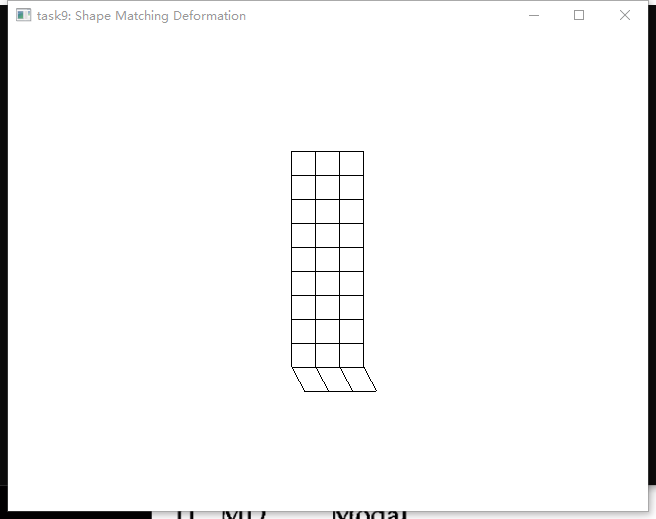
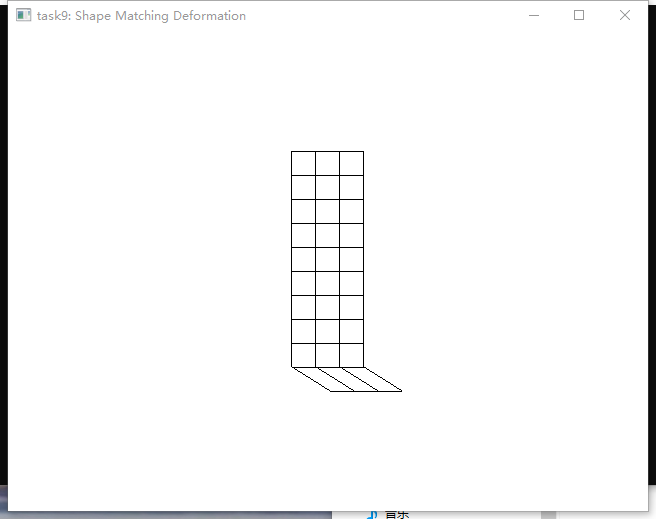
task1 is not finished

Changed region(s): [[0.0, 0.9249, 0.6402, 1.0], [0.5183, 0.7091, 0.5793, 0.7399], [0.8232, 0.9865, 0.8537, 1.0]]

diff --git a/task9/main.cpp b/task9/main.cpp
@@ -1,4 +1,3 @@
-
 #include "delfem2/glfw/viewer2.h"
 #include "delfem2/mshprimitive.h"
 #include <GLFW/glfw3.h>
@@ -76,8 +75,6 @@ int main()
   const std::vector<float> aXY0 = aXY; // rest shape
   std::vector<float> aUV(aXY.size(),0.0); // velocity
   std::vector<float> aXYt(aXY.size(),0.0); // tentative shape
-  std::vector<float> aXYt_update = aXY;
-  std::vector<float> aNO(aQuad.size(), 0.0);
   float dt = 0.03;
   // ---------
   delfem2::glfw::CViewer2 viewer;
@@ -91,7 +88,7 @@ int main()
   glfwWindowHint(GLFW_CONTEXT_VERSION_MINOR, 1);
   // ------
   viewer.InitGL();
-  unsigned int c = 0;
+
   while (!glfwWindowShouldClose(viewer.window))
   {
     { // animation using Shape Matching Deformation [Müller et al. 2005]
@@ -106,25 +103,6 @@ int main()
         aXYt[ixy*2+0] = aXY[ixy*2+0] + dt*aUV[ixy*2+0];
         aXYt[ixy*2+1] = aXY[ixy*2+1] + dt*aUV[ixy*2+1];
       }
-        std::vector<int> flag(aXY.size(),0);
-        std::cout << "aXY.size() = " << aXY.size() << std::endl;
-        std::cout << "aQuad.size() = " << aQuad.size() << std::endl;
-
-        for(unsigned k=0;k<aXY.size();++k){
-          std::cout << " f=" << flag[k];
-        }
-        std::cout << std::endl;
-
-        // // print out aMass
-        // for(unsigned k=0;k<aXY.size()/2;++k){
-        //   std::cout << "am" << k << "=" << aMass[k] << std::endl;
-        // }
-
-        // // print out aUV
-        // for(unsigned int k=0;k<aUV.size();++k){
-        //   std::cout << "aUV" << k << "=" << aUV[k] << std::endl;
-        // }
-
       for(unsigned int iq=0;iq<aQuad.size()/4;++iq){
         const Eigen::Vector2f ap[4] = { // coordinates of quad's corner points (tentative shape)
             Eigen::Map<Eigen::Vector2f>(aXYt.data()+aQuad[iq*4+0]*2),
@@ -142,7 +120,7 @@ int main()
             aMass[aQuad[iq*4+2]],
             aMass[aQuad[iq*4+3]] };
         // write some code below to rigidly transform the points in the rest shape (`aq`) such that the
-        // weighted sum of squared distances against the points in the tentative shape (`ap`) is minimized (`am` is the weight).
+        // weighted sum of squared distances against the points in the tentative shape (`qp`) is minimized (`am` is the weight).
         Eigen::Vector2f tcg = (am[0]*ap[0]+am[1]*ap[1]+am[2]*ap[2]+am[3]*ap[3])/(am[0]+am[1]+am[2]+am[3]);
         Eigen::Vector2f Tcg = (am[0]*aq[0]+am[1]*aq[1]+am[2]*aq[2]+am[3]*aq[3])/(am[0]+am[1]+am[2]+am[3]);
         auto BAT = am[0]*(ap[0]-tcg)*(aq[0]-Tcg).transpose()+am[1]*(ap[1]-tcg)*(aq[1]-Tcg).transpose()+am[2]*(ap[2]-tcg)*(aq[2]-Tcg).transpose()+am[3]*(ap[3]-tcg)*(aq[3]-Tcg).transpose();
@@ -154,23 +132,16 @@ int main()
 
         //Eigen::MatrixXf Ropt = U*V.transpose();
         Eigen::MatrixXf Ropt = U*V.transpose();
-        Eigen::Vector2f topt = tcg - Ropt*Tcg;
-        Eigen::Vector2f update(topt.size(),0.0);
+        Eigen::Vector2f topt = tcg + Ropt*Tcg;
 
+        Eigen::Vector2f update(topt.size(),0.0);
         for(unsigned int j=0;j<4;++j){
-          update = Ropt*aq[j] - topt;
+          update = Ropt*aq[j] + topt;
           aXYt[aQuad[iq*4+j]*2] = update[0];
           aXYt[aQuad[iq*4+j]*2+1] = update[1];
         }
-
-
-        // std::cout << iq << std::endl;
-        // for (unsigned int j=0;j<flag.size();j++)
-        // {
-        //   std::cout << " f=" << flag[j];
-        // }
-        // std::cout << std::endl;
-
+        // no edits further down
+      }
       for(unsigned int ixy=0;ixy<aXY.size()/2;++ixy) { // update position and velocities
         aUV[ixy*2+0] = (aXYt[ixy*2+0] - aXY[ixy*2+0])/dt;
         aUV[ixy*2+1] = (aXYt[ixy*2+1] - aXY[ixy*2+1])/dt;
@@ -183,7 +154,6 @@ int main()
     ::glColor3d(0,0,0);
     ::glBegin(GL_LINES);
     for(unsigned int iq=0;iq<aQuad.size()/4;++iq){ // draw edges of quads
-      if(iq==0){::glColor3d(1,0,0);}
       ::glVertex2fv(aXY.data()+aQuad[iq*4+0]*2);
       ::glVertex2fv(aXY.data()+aQuad[iq*4+1]*2);
       ::glVertex2fv(aXY.data()+aQuad[iq*4+1]*2);
@@ -192,14 +162,10 @@ int main()
       ::glVertex2fv(aXY.data()+aQuad[iq*4+3]*2);
       ::glVertex2fv(aXY.data()+aQuad[iq*4+3]*2);
       ::glVertex2fv(aXY.data()+aQuad[iq*4+0]*2);
-      ::glColor3d(0,0,0);
-
     }
     ::glEnd();
     viewer.SwapBuffers();
     glfwPollEvents();
-
-    
   }
   glfwDestroyWindow(viewer.window);
   glfwTerminate();

diff --git a/task9/README.md b/task9/README.md
@@ -33,7 +33,7 @@ Paste the image below.
 
 === paste screenshot here ===
 
-![](result1.png)
+
 
 ## Problem 2
 
